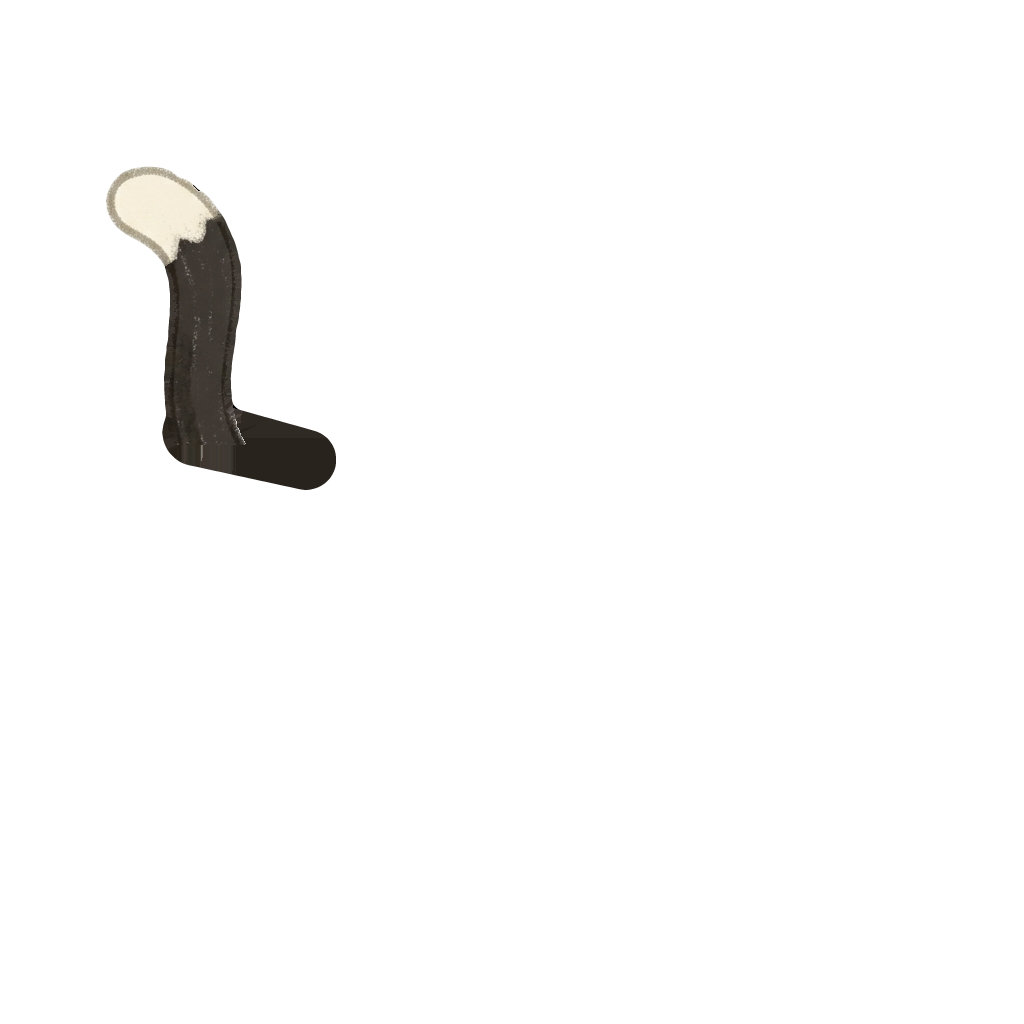
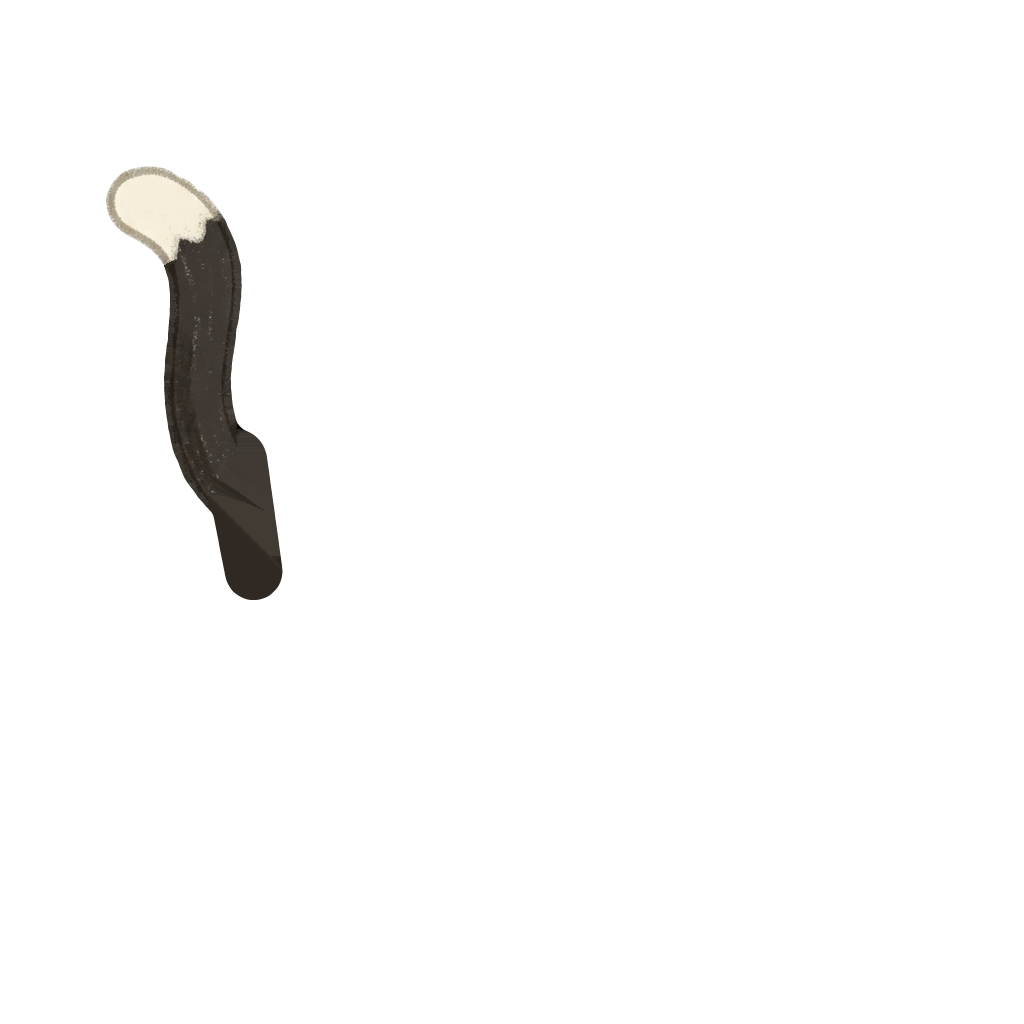
Kritans ABC E: munnar på katten och ekorren, kattens svans svänger in i kroppen, E-klossen snurrar, dansgolv och silverkula

Changed region(s): [[0.1562, 0.375, 0.3438, 0.5938]]

diff --git a/produktion/youtube/alfabet/abc-e-recept-3/index.html b/produktion/youtube/alfabet/abc-e-recept-3/index.html
@@ -77,7 +77,7 @@ const EKORRE_DELAR = [['tail', 690, 740, 'svans'], ['fot-bak', 302, 879, 'fot'],
 // Katten likadant (Sanna 2026-11-20: "and the cat"): katt-abc (den vanliga svarta katten från sidan) utan svans och ben ur Flow
 // (katt-abc/original/katt-kropp-1.jpg). Benen är två par, bakbenen och frambenen, som går i otakt. Figuren är 722 px hög (y 144–866).
 const KATT = ['katt-abc/cut/katt-body', 1024, 1024, 1024 * 420 / 722, 250 + 1024 * 420 / 722 - 866 * 420 / 722];
-const KATT_DELAR = [['tail', 228, 440, 'svans'], ['bak-r', 411, 785, 'benB'], ['fram-r', 696, 740, 'benA'],   // de bortre benen först
+const KATT_DELAR = [['tail', 240, 492, 'svans'], ['bak-r', 411, 785, 'benB'], ['fram-r', 696, 740, 'benA'],   // de bortre benen först
   ['bak-l', 316, 757, 'benA'], ['fram-l', 618, 769, 'benB']];   // diagonalt par i takt, som en katt går
 const ELSA = [1024, 1024, 675.84, 328.84];   // elefantens 1024-ruta i teckningens mått
 const SAKER = {
@@ -91,7 +91,7 @@ const SAKER = {
       ['snabel', await kontur('karaktarer/elefanten-elsa/premium/elsa-snabel', ...ELSA), '#6B7490', 13, 2.2],
       ['oga-l', iTeckning(ell(420, 402, 14, 21), ...ELSA), '#3B3431', 12, 0.6],
       ['oga-r', iTeckning(ell(601, 401, 14, 21), ...ELSA), '#3B3431', 12, 0.6]] },
-  ekorre: { platta: ['#E8739A', 0, 560, -0.08], fraga: 'p-vem', lang: 'p-ekorre', kort: 'p-e-e-ekorre', berom: 'p-ocksa-ekorre', bild: EKORRE, delar: EKORRE_DELAR, ogon: [[-155, -77, 10]],
+  ekorre: { platta: ['#E8739A', 0, 560, -0.08], fraga: 'p-vem', lang: 'p-ekorre', kort: 'p-e-e-ekorre', berom: 'p-ocksa-ekorre', bild: EKORRE, delar: EKORRE_DELAR, ogon: [[-155, -77, 10]], smil: ['M106 447 Q110 458 119 461 Q135 466 151 455', '#5A2E14', 6],
     streck: [['kontur', await kontur('karaktarer/ekorren/premium/ekorre-faceless', ...EKORRE.slice(1)), '#A9561C', 15, 7.5],
       ['oga', iTeckning(ell(239, 384, 13, 15), ...EKORRE.slice(1)), '#3B3431', 12, 0.6]] },
   ekollon: { platta: ['#59B36A', 0, 520, 0.06], fraga: 'p-vad-blir', lang: 'p-ekollon', kort: 'p-ett-ekollon', berom: 'p-ocksa-ekollon', bild: EKOLLON,
@@ -99,7 +99,7 @@ const SAKER = {
   // katten är den som kritan ritar fel; hunden är den udda i leken (färdigt urklipp, ritas inte)
   // Hunden är riggen Hugo (Sanna 2026-11-20: det som ritas ska kunna röra sig lite, med ansikte, ben, armar och svans). Samma 1024-ruta
   // och skala som elefanten; fötterna (FOTTER 923) står lika på golvet, därför 7 · 0,66 lägre nederkant. Katten är en vanlig katt med delar.
-  katt: { platta: ['#F2C53D', 35, 380, 0.09], fraga: 'p-vem', lang: 'p-katt', bild: KATT, delar: KATT_DELAR, ogon: [[167, -26, 9]], ogonKant: true,
+  katt: { platta: ['#F2C53D', 35, 380, 0.09], fraga: 'p-vem', lang: 'p-katt', bild: KATT, delar: KATT_DELAR, ogon: [[167, -26, 9]], ogonKant: true, smil: ['M875 444 L873 457 Q866 469 850 465', '#EDE3D0', 6],
     streck: [['kontur', await kontur('rekvisita/katt-abc/katt-faceless', ...KATT.slice(1)), '#3B3431', 15, 6.5],
       ['oga', iTeckning(ell(800, 392, 14, 16), ...KATT.slice(1)), '#3B3431', 12, 0.6]] },
   hund: { platta: ['#5BB8C9', 20, 440, -0.07], rigg: 'hunden-hugo', streck: [] },
@@ -160,6 +160,7 @@ for (const [namn, s] of Object.entries(SAKER)) {
     for (const x of (s.delar ?? []).filter(x => x[4])) await delEl(x);
     for (const [x, y, r] of s.prickar ?? []) el('circle', { cx: x, cy: y, r, fill: '#3B3431', transform: tr }, s.liv);
     for (const [x, y] of s.kinder ?? []) el('ellipse', { cx: x, cy: y, rx: 24, ry: 14, fill: '#F29C94', opacity: 0.55 }, s.liv);
+    if (s.smil) el('path', { d: s.smil[0], fill: 'none', stroke: s.smil[1], 'stroke-width': s.smil[2], 'stroke-linecap': 'round', 'stroke-linejoin': 'round', transform: tr }, s.liv);   // liten glad mun från sidan, i bildens pixlar (Sanna 2026-11-21)
     if (s.mun) { const [x, y, w] = s.mun;   // glad, öppen mun som apans (Sanna 2026-11-18: "add happy mouth to frutis")
       el('path', { d: `M${x - w} ${y} Q${x} ${y + w * 0.18} ${x + w} ${y} Q${x + w * 0.85} ${y + w * 1.15} ${x} ${y + w * 1.2} Q${x - w * 0.85} ${y + w * 1.15} ${x - w} ${y}Z`,
         fill: '#8E2F26', stroke: '#2B2523', 'stroke-width': Math.max(2.5, w * 0.16), 'stroke-linejoin': 'round' }, s.liv); }
@@ -328,7 +329,7 @@ A.svar = A.rita[1] + 0.4; fx(A.svar, 'pling', 0.5); A.hopp.push(A.svar + 0.1); G
 // Introt (Sanna 2026-11-18): "Det är ju A! Bokstaven A. A säger ah. Kan du säga ah?" och en paus för barnet.
 // d-* är platshållare med datorrösten (abc-prov/platshallare/) tills de spelas in med Malin.
 t = sag(A.svar + 0.2, 'p-det-ar-e');
-t = sag(t + 0.3, 'p-bokstaven-e') + 0.6; A.hopp.push(t - 1.1, t - 0.3);   // "E, e, elefant!" sägs nu på svaret (tagning 3)
+t = sag(t + 0.3, 'p-bokstaven-e') + 0.6; A.spinn = [[t - 1.3, t - 0.3]]; fx(t - 1.3, 'swoosh', 0.4);   // ett varv på "Bokstaven E" i stället för två vickande hopp (Sanna 2026-11-21: "jiggle a bit too repetitive, perhaps it could spin")   // "E, e, elefant!" sägs nu på svaret (tagning 3)
 A.vrid = t + 0.3; kamTill(t - 0.4, 960, 540, 1, 1.2);   // ut igen innan plattan flyttar; den vickar lite i vinjetten och hänger still i hörnet
 t = flyttaK(A, t + 0.3, AHORN, AHS, 1.0, 40); fx(t - 1.0, 'swoosh', 0.6);
 
@@ -651,7 +652,7 @@ const FLACK = [[330, 320, 160, 115, 220, 11, 0], [1580, 300, 150, 110, 200, 13, 
 // Mer dansgolv och mer sken (feedback 2026-11-19 3:27), som 006:s discoljus.js: golvet blir ett dansgolv av rutor i perspektiv
 // som alla lyser svagt i pastell, och några i taget lyser upp mjukt i en båge över takten (nya varje takt, inget blinkar).
 // Fem mjuka ljuskäglor från kulan svajar sakta över väggen och golvet, bakom klossarna.
-document.querySelector('#botten defs').insertAdjacentHTML('beforeend', `<filter id="rutsken" x="-0.2" y="-0.2" width="1.4" height="1.4"><feGaussianBlur stdDeviation="4"/></filter>
+document.querySelector('#botten defs').insertAdjacentHTML('beforeend', `<filter id="rutsken" x="-0.2" y="-0.2" width="1.4" height="1.4"><feGaussianBlur stdDeviation="1.2"/></filter>
   <filter id="kaglasken" x="-1" y="-1" width="3" height="3"><feGaussianBlur stdDeviation="10"/></filter>
   ${['#FFB3CF', '#FFE08A', '#A9D2FF'].map((c, i) => `<linearGradient id="kagla-g${i}" x1="0" y1="0" x2="0" y2="1"><stop offset="0" stop-color="${c}" stop-opacity=".8"/><stop offset=".6" stop-color="${c}" stop-opacity=".35"/><stop offset="1" stop-color="${c}" stop-opacity="0"/></linearGradient>`).join('')}`);
 const GOLVF = ['#F7A6C4', '#FFD36E', '#9CC8F5', '#C3A8F2', '#9EDDB3', '#FFB98F'];   // dansgolvets rutor: lite mer färg än fläckarna, golvet är beige
@@ -662,6 +663,8 @@ const RUTOR = (() => { const VP = [960, GOLV - 1500], rader = Array.from({ lengt
     u.push({ i, j, d: `M${at(xa, y0) + 3} ${y0 + 2}L${at(xb, y0) - 3} ${y0 + 2}L${at(xb, y1) - 4} ${y1 - 3}L${at(xa, y1) + 4} ${y1 - 3}Z` }); }
   return u; })();
 const rutG = el('g', { filter: 'url(#rutsken)', style: 'display:none' }, document.getElementById('bak'));
+// Ett riktigt dansgolv (Sanna 2026-11-21: "make disco floor"): mörka fogar under rutorna, rutorna nästan täta, och de tända lyser upp mot vitt.
+const fogEl = el('rect', { y: GOLV + 2, width: 1920, height: 1080 - GOLV, fill: '#4A3F4F' }, rutG);
 const rutor = RUTOR.map(r => ({ ...r, e: el('path', { d: r.d }, rutG) }));
 const KAGLA = [-50, -25, 0, 25, 50];
 const kaglaG = el('g', { filter: 'url(#kaglasken)', style: 'display:none' }, document.getElementById('bak'));
@@ -673,15 +676,18 @@ const KULA_F = 'assets/bakgrunder/danspaus/cut/discokula.png', KS = 0.44;   // k
 await ladda(KULA_F);
 const kulaG = el('g', { style: 'display:none' }); document.getElementById('topp').insertBefore(kulaG, sakerG);
 el('line', { x1: 0, y1: -800, x2: 0, y2: ((88 - 583) * KS).toFixed(1), stroke: '#A6A6A6', 'stroke-width': 4, 'stroke-linecap': 'round' }, kulaG);
-el('image', { href: '/' + KULA_F, width: 1024, height: 1024, transform: `scale(${KS}) translate(-513 -583)` }, kulaG);
+document.querySelector('#botten defs').insertAdjacentHTML('beforeend', '<filter id="silver" color-interpolation-filters="sRGB"><feColorMatrix type="matrix" values=".38 .75 .12 0 .02  .38 .75 .12 0 .04  .4 .78 .13 0 .08  0 0 0 1 0"/></filter>');   // Sanna 2026-11-21: "make discoball silver" (005:s rosa kula i gråskala, lite kall)
+el('image', { href: '/' + KULA_F, width: 1024, height: 1024, transform: `scale(${KS}) translate(-513 -583)`, filter: 'url(#silver)' }, kulaG);
 function disco(t, ut) {
   const inn = inUt(del([DISCO[0] - 0.3, DISCO[0] + 0.9], t)) * (1 - inUt(del([DISCO[1] - 0.4, DISCO[1] + 0.8], t)));
   const d = t - DISCO[0] - 0.1, takt = Math.floor(d / (4 * SLAG)), kb = clamp((d - takt * 4 * SLAG) / 0.6);
   rutG.style.display = kaglaG.style.display = inn > 0 ? '' : 'none';
   const tk = d / (4 * SLAG) - takt, bg = Math.sin(Math.PI * clamp(tk)) ** 2;   // tändningen: en mjuk båge över takten
   if (inn > 0) rutor.forEach(({ i, j, e }, n) => { const tand = ((i + 6) * 3 + j * 5 + takt * 4) % 5 === 0;
-    e.setAttribute('fill', blanda(GOLVF[(n + takt + 60) % 6], GOLVF[(n + takt + 61) % 6], kb));
-    e.setAttribute('opacity', ((0.38 + (tand ? 0.45 * bg : 0)) * inn * ut).toFixed(3)); });
+    const f = blanda(GOLVF[(n + takt + 60) % 6], GOLVF[(n + takt + 61) % 6], kb);
+    e.setAttribute('fill', tand ? blanda('#' + f.slice(4, -1).split(',').map(v => (+v).toString(16).padStart(2, '0')).join(''), '#FFFFFF', 0.45 * bg) : f);
+    e.setAttribute('opacity', ((0.72 + (tand ? 0.28 * bg : 0)) * inn * ut).toFixed(3)); });
+  fogEl.setAttribute('opacity', (0.55 * inn * ut).toFixed(3));
   const ky = lerp(-320, 90, inUt(del([KULA.ner, KULA.ner + 1.1], t)) - inUt(del([KULA.upp, KULA.upp + 1.2], t)));
   if (inn > 0) kaglor.forEach((e, i) => e.setAttribute('transform', `translate(960 ${ky.toFixed(1)}) rotate(${(KAGLA[i] + 9 * Math.sin(2 * Math.PI * t / 12 + i * 1.7)).toFixed(2)})`));
   kaglaG.setAttribute('opacity', (0.6 * inn * ut).toFixed(3));
@@ -821,7 +827,7 @@ function ledder(s, t, bit) {
     benA: 7 * ga - 6 * h, benB: -7 * ga + 6 * h };   // katten: bakbenen och frambenen i otakt, och isär i luften
   for (const [n, im, px, py] of s.delEl) im.setAttribute('transform', `rotate(${v[n].toFixed(2)} ${px} ${py})`);
 }
-const aGung = t => A.hopp.reduce((s, h) => { const d = t - h; return d < 0 || d > 1.2 ? s : s + 0.16 * Math.sin(d * 2 * Math.PI / 0.45) * (1 - d / 1.2); }, 0);
+const aGung = t => A.hopp.reduce((s, h) => { const d = t - h; return d < 0 || d > 1.2 ? s : s + 0.1 * Math.sin(d * 2 * Math.PI / 0.45) * (1 - d / 1.2) ** 2; }, 0);   // mindre vick, dör ut snabbare (2026-11-21)
 // en kloss i bilden: läget ur kk, poppar fram (nederkanten kvar på golvet), hoppar på golvet men nickar fram mot kameran i muren
 const KLOSSAR = [A, ...BILDKLOSS.map(n => SAKER[n])];
 const vaggskugga = el('rect', { fill: '#3b3431', filter: 'url(#mjuk)', opacity: 0 }, document.getElementById('klosskuggor'));

diff --git a/format/abc-recept-3-kompisen-vill.md b/format/abc-recept-3-kompisen-vill.md
@@ -32,14 +32,14 @@ Varje bokstav fylls i med en mening:
 
 | # | Del | Vad händer |
 |---|---|---|
-| 1 | Vinjetten | Som i recept 1, men kortare (ca 17 s i stället för 21): klossen snurrar in, kritan ritar bokstaven, *"Hej hej!"* (Sannas manus 2026-11-20, i stället för *"Kritans ABC!"*), *"Kritan ritar. Det är ju E! Bokstaven E."* tätt efter varandra, ingen säg-paus, och *"Kritan ritar något på bokstaven E."* börjar medan märket flyger till hörnet. Ordet i introt är kompisen. Klossen har rundade kanter som bildklossarna (`rund: 0.12`). |
+| 1 | Vinjetten | Som i recept 1, men kortare (ca 17 s i stället för 21): klossen snurrar in, kritan ritar bokstaven, *"Hej hej!"* (Sannas manus 2026-11-20, i stället för *"Kritans ABC!"*), *"Kritan ritar. Det är ju E! Bokstaven E."* tätt efter varandra, ingen säg-paus, och *"Kritan ritar något på bokstaven E."* börjar medan märket flyger till hörnet. Ordet i introt är kompisen. Klossen har rundade kanter som bildklossarna (`rund: 0.12`). På *"Bokstaven E."* snurrar klossen ett varv (`A.spinn`) i stället för att vicka två gånger, och vicket efter hoppen är litet (Sanna 2026-11-21: *"jiggle a bit too repetitive"*). |
 | 2 | Kompisen (ord 1) | Kritan ritar konturen i ett drag, *"Hmm …"*, *"Vem är det?"*, paus 4 s, svaret, närbilden med *"E, e, elefant!"* (ordet med bokstaven sägs på svaret, inte i introt), *"… börjar på bokstaven E."* Sedan går kompisen åt sidan med två små skutt, vinkar och står kvar där: *"Hej, elefanten!"* (`KOMPIS`, x 400, skala 0,95). Ingen kloss. |
 | 3 | Viljan | Närbild på kompisen: ett uttryck och en pose, sedan Malin: *"Elefanten vill leka. Men elefanten har ingen kompis."* Kameran ut, och Malin ber kritan: *"Kritan! Kan du rita en kompis?"* Kompisen lutar sig fram och "viskar": *"Vad sa du, elefanten? Måste kompisen börja på bokstaven E?"* Kompisen hoppar till (ja!), *"Kan du det, kritan? Nu ritar kritan."* |
 | 4 | Kritan ritar fel | Kritan ritar den udda saken med samma slag (hmm, frågan, pausen, svaret, *"Katt? En katt!"*). Kompisen blir förvånad i närbild. *"Ha ha! Busiga kritan! Katt börjar inte på E."* Den udda går ut, kompisen vinkar: *"Hej då, katten!"* |
 | 5 | Ord 2 | *"En gång till!"* *"En kompis på bokstaven E, tack!"* Kritan ritar ord 2 till höger om kompisen (`RITA`). Kompisen tittar nyfiket medan kritan ritar och jublar på svaret (*"E, e, ekorre!"*). Kompisen vinkar, *"Hej, ekorren! Vill du leka med elefanten?"*, och ord 2 svarar genom att hoppa. Sedan gör de **en sak tillsammans** (se menyn), en i taget och sedan båda: *"Hopp, hopp, hopp!"* |
 | 6 | Ord 3 | En liten ny vilja (*"Oj. Ekorren är hungrig."*), Malin ber kritan igen (*"Kritan, rita något gott!"*), kritan ritar ord 3 mitt emellan dem, och saken går dit den behövs (*"Varsågod, ekorren!"*, *"Mums!"*, *"Nu är ekorren mätt och glad."*). Kompisen jublar i närbild. |
 | 7 | Vilken ska bort? | *"Nu leker vi!"* Tre bildklossar poppar fram mitt på golvet och var och en hoppar in på sin platta. Blandningen följs som en lek (*"Titta noga. Var är elefanten?"* och *"Där är den!"* när kompisens kloss hoppar), sedan muren och **en** runda, som i recept 1. **Liv i muren** (Sanna 2026-11-20): kompisen på sin kloss vänder sig mot klossen Malin säger (`tittaMot()`: åt sidan, neråt eller snett) och jublar på sitt eget ord. Medan Malin frågar och barnet tänker ser kompisen sig om, en kloss i taget, klossen den tittar på nickar fram, och kameran kryper sakta närmare (1,3 till 1,42). |
-| 8 | Disco och hej då | Som i recept 1, med tre klossar: kompisen hoppar ur sin kloss och dansar stor, de två andra snurrar en i taget, och Malin säger vem som dansar och snurrar efter varje snurr. Före *"Alla börjar på bokstaven E."* hoppar klossarna på sina ord: *"Elefant, ekorre, ekollon."* Pyramid med kompisen överst, sedan *"Det var allt för i dag. Vad kul det var att leka! Hej då!"*, utrullning och bokstaven sist. |
+| 8 | Disco och hej då | Som i recept 1, med tre klossar: kompisen hoppar ur sin kloss och dansar stor, de två andra snurrar en i taget, och Malin säger vem som dansar och snurrar efter varje snurr. Före *"Alla börjar på bokstaven E."* hoppar klossarna på sina ord: *"Elefant, ekorre, ekollon."* Klossarna är ca 30 % större än i recept 1 (rad 240, mur 300, slutrad 290, disco 230; muren högst 300, annars klipps toppen i zoomen). Golvet är ett riktigt dansgolv: nästan täta pastellrutor över mörka fogar, och de tända lyser upp mot vitt. Discokulan är silver (`filter: url(#silver)` på 005:s rosa kula). Pyramid med kompisen överst, sedan *"Det var allt för i dag. Vad kul det var att leka! Hej då!"*, utrullning och bokstaven sist. |
 
 Slagen per ord är desamma som i recept 1. Skillnaden är vad som händer mellan dem.
 
@@ -59,7 +59,7 @@ Sanna 2026-11-20: *"outline, then picture"*. Det är ritintrots sätt (`ritintro
 
 ## Djurbilderna
 
-Djur som inte är kompisen (ekorren, katten) är **vanliga små djur från sidan**, i samma stil som emun, enhörningen och duvan: knubbiga, platt kritfyllning, vit klistermärkskant, inget öga i bilden. Inte figurer på två ben (Sanna 2026-11-20: *"en liten ekorre som vanligt"*, *"samma sak med katt"*). Ögat ritas i kod och blinkar, och kritan ritar det efter konturen. **Djuren ska kunna röra sig lite** (Sanna 2026-11-20): be Flow om en version av samma bild utan svans och ben ("ONLY REMOVE the tail and the legs, close the body with its own outline"), klipp delarna med `verktyg/delar.py <mapp> <namn> --egen-kant --oron-svans`, byt namn på delarna (svansen kan bli `ear-*`), ge svansen lång rot (`verktyg/langre_rot.py`, leden uppe på ryggen, inte där kroppen svänger bort) och lägg in dem som `delar: [[del, ledx, ledy, 'svans' | 'tass' | 'fot' | 'benA' | 'benB']]` (se `ledder()` i E). Små vinklar: svans ±3°, tassar och ben ±7°. Använd de andra ABC-djuren som stilreferenser i Flow (Nano Banana, 0 krediter). Den som ska titta mot kompisen spegelvänds innan den klipps ut.
+Djur som inte är kompisen (ekorren, katten) är **vanliga små djur från sidan**, i samma stil som emun, enhörningen och duvan: knubbiga, platt kritfyllning, vit klistermärkskant, inget öga i bilden. Inte figurer på två ben (Sanna 2026-11-20: *"en liten ekorre som vanligt"*, *"samma sak med katt"*). Ögat ritas i kod och blinkar, och kritan ritar det efter konturen. **Djuren ska kunna röra sig lite** (Sanna 2026-11-20): be Flow om en version av samma bild utan svans och ben ("ONLY REMOVE the tail and the legs, close the body with its own outline"), klipp delarna med `verktyg/delar_diff.py <mapp> <namn> <kant> del@x,y …` (varje del är skillnaden mellan bilden med och utan delar, så de blir hela och utan flisor av kroppens kant; `<X`/`>X` delar ett benpar, `!fram` för delar framför kroppen som ekorrens arm och närmsta fot; långa rötter och jämn kant görs automatiskt) och lägg in dem som `delar: [[del, ledx, ledy, 'svans' | 'tass' | 'fot' | 'benA' | 'benB']]` (se `ledder()` i E). Små vinklar: svans ±3°, tassar och ben ±7°. Katten går med benen i diagonala par (`benA`/`benB`). **Svansen ska svänga in i kroppen som i bilden:** klipp den ända ner till kroppen (inte rakt av högre upp, då blir roten en vågrät fot) och ge den rot längs sin egen axel (`langre_rot.py … --axel`); leden där den möter kroppen (katten 240, 492). **Munnen ritas i kod** (Sanna 2026-11-21): `smil: [path i bildens pixlar, färg, bredd]`, ett litet leende under nosen från sidan, mörkbrun på ljusa djur och krämvit på svarta (katten). Använd de andra ABC-djuren som stilreferenser i Flow (Nano Banana, 0 krediter). Den som ska titta mot kompisen spegelvänds innan den klipps ut.
 
 ## Fem små handlingar som går att animera
 
